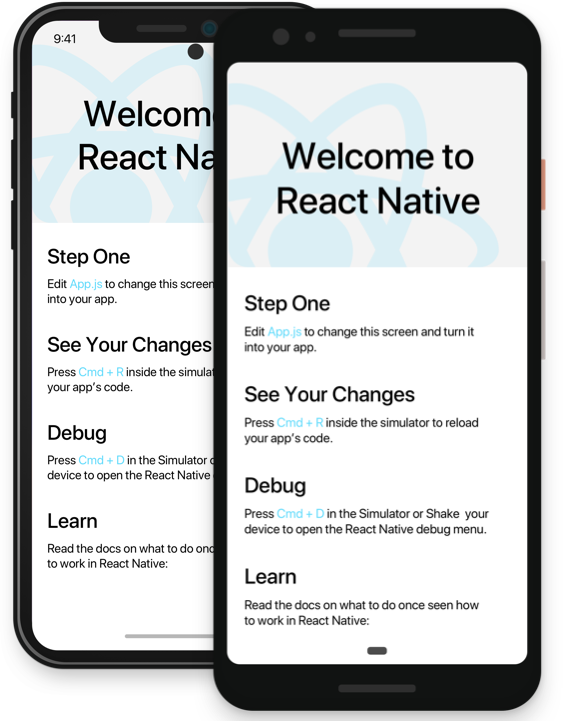
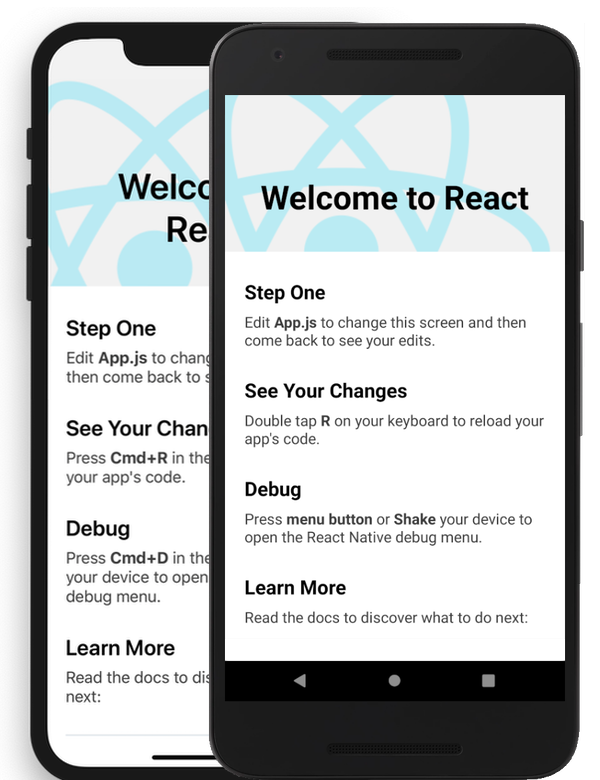
finalized phone screen

diff --git a/website/pages/en/index.js b/website/pages/en/index.js
@@ -202,6 +202,7 @@ function CodeExample() {
 const features = [
   {
     title: 'Create native apps for Android and iOS using React and JavaScript',
+    className: 'Intro',
     text: `
 React Native combines the best parts of native development with React, a best-in-class JavaScript library for building user interfaces.
 

diff --git a/website/static/css/homepage/Feature.css b/website/static/css/homepage/Feature.css
@@ -9,6 +9,15 @@
   }
 }
 
+.Feature.Intro {
+  max-height: 425px;
+}
+
+/* Correct for whitespace in the image of phones */
+.Feature.Intro img {
+  margin-top: -1.5rem;
+}
+
 .Feature.ReactRefresh {
   padding: 0;
   /* height needs to be set to equal that of the video or there's weird spacing */
